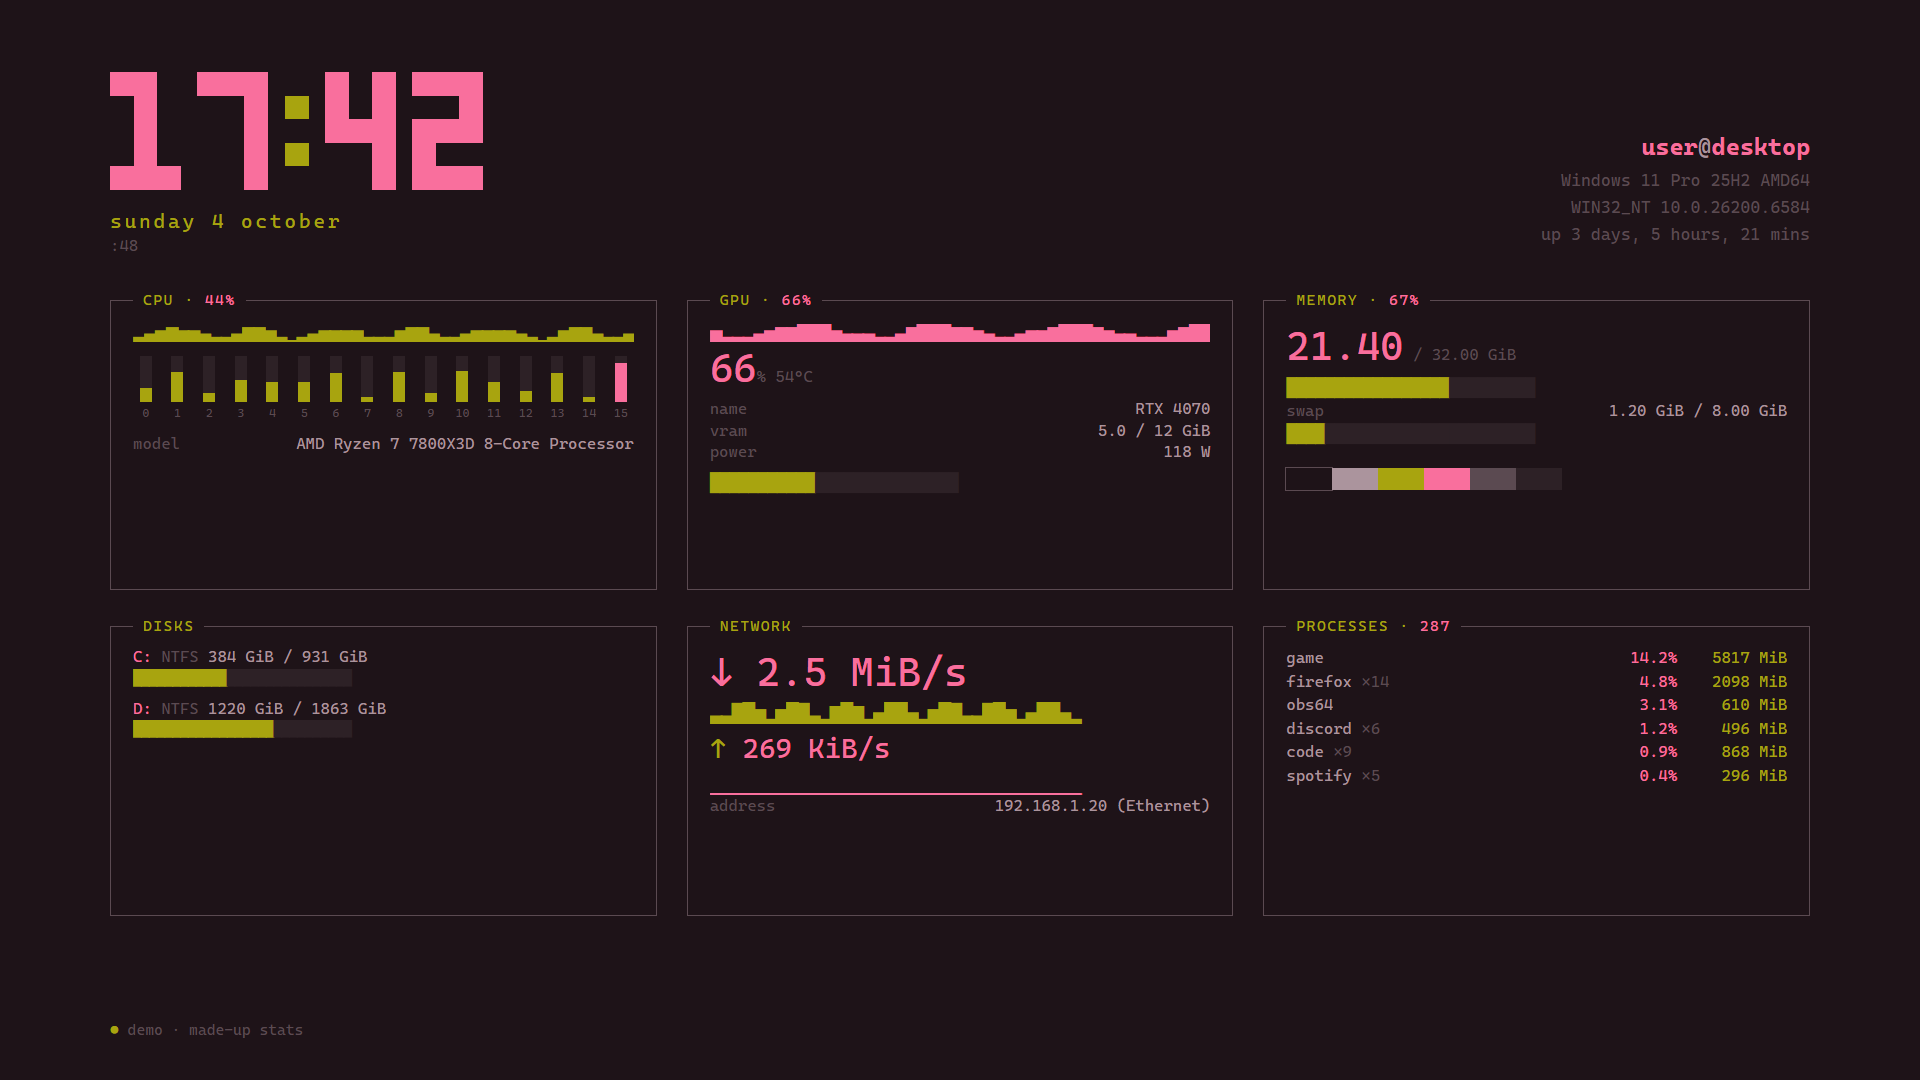
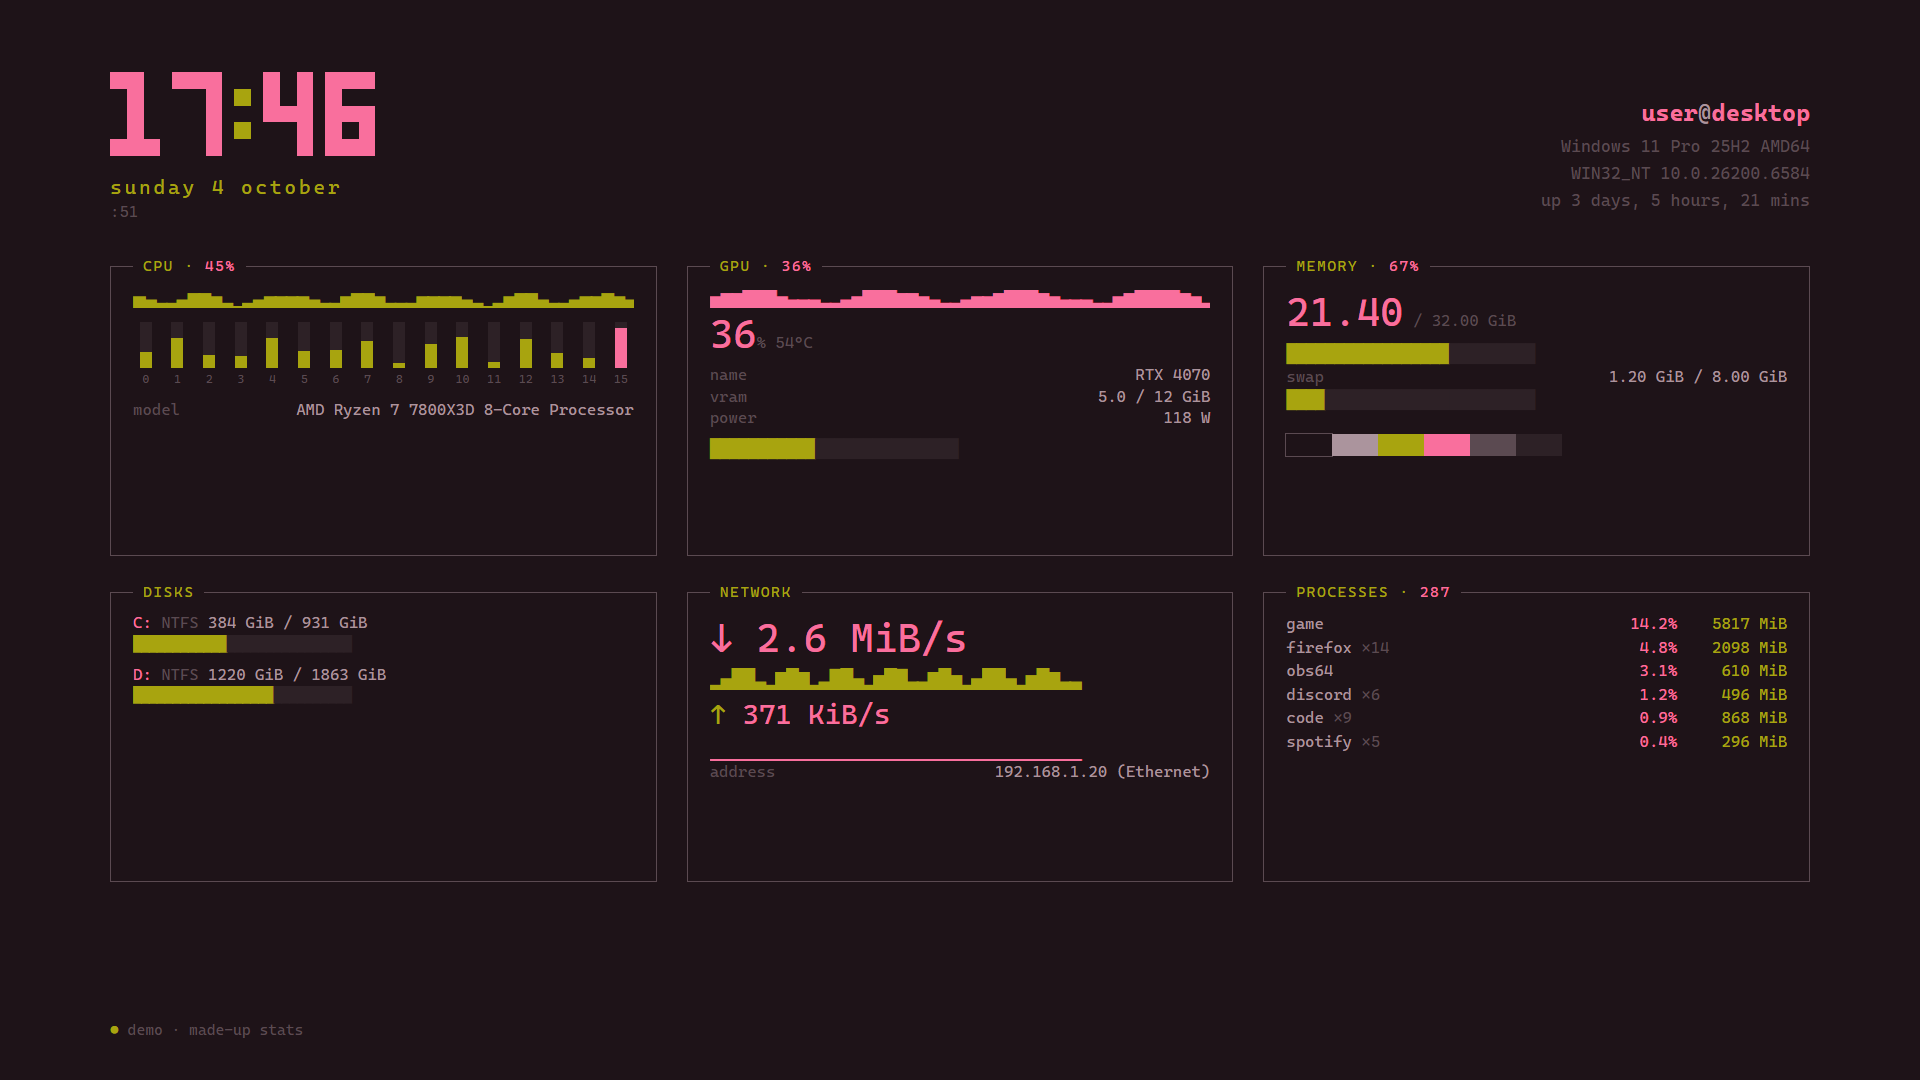
One clock: the fetch layout's, at the same size in every layout; clock styles removed
The block digits blown up to 118 and 250 px in board and minimal looked crude, and the
segments/text alternatives weren't wanted. --style and theme.json no longer take a clock;
an old "clock" key is ignored. Screenshots retaken.

diff --git a/index.html b/index.html
@@ -55,11 +55,7 @@ h3 b{color:var(--teal);font-weight:400}
 /* ── the clock: one SVG per glyph, so digits never show seams or gaps when scaled ── */
 .clock .time{display:flex;align-items:flex-end;gap:calc(var(--ch) * .14)}
 .clock .time svg{height:var(--ch);width:auto;display:block;overflow:visible}
-.clock .time .on{fill:var(--mint)} .clock .time .off{fill:var(--faint)} .clock .time .col{fill:var(--teal)}
-/* a thin sans for the text clock: Cascadia's dotted zero looked like a target at this size */
-.clock .time .txt{font:200 calc(var(--ch) * 1.36)/.78 "Segoe UI Variable Display","Segoe UI","Inter","Noto Sans",sans-serif;
-  color:var(--mint);letter-spacing:-.02em;font-variant-numeric:tabular-nums}
-.clock .time .txt .colon{color:var(--teal)}
+.clock .time .on{fill:var(--mint)} .clock .time .col{fill:var(--teal)}
 .clock .date{color:var(--teal);letter-spacing:.14em;text-transform:lowercase}
 .clock .sec{color:var(--dim)}
 
@@ -80,7 +76,7 @@ h3 b{color:var(--teal);font-weight:400}
 /* ── layout: board (btop-like boxes) ── */
 #board{padding:72px 110px}
 #board .head{display:flex;justify-content:space-between;align-items:flex-end;margin-bottom:34px}
-#board .clock{--ch:118px}
+#board .clock{--ch:84px}  /* the fetch clock's size everywhere: bigger blocks look crude */
 #board .clock .date{font-size:20px;margin-top:18px}
 #board .clock .sec{font-size:16px}
 #board .who{text-align:right;font-size:17px;line-height:1.6}
@@ -104,10 +100,10 @@ h3 b{color:var(--teal);font-weight:400}
 /* ── layout: minimal (a big clock) ── */
 #minimal{display:none;text-align:center}
 body.L-minimal #minimal{display:flex;flex-direction:column;align-items:center;justify-content:center}
-#minimal .clock{--ch:250px;display:flex;flex-direction:column;align-items:center}
-#minimal .clock .date{font-size:30px;margin-top:44px;letter-spacing:.3em}
+#minimal .clock{--ch:84px;display:flex;flex-direction:column;align-items:center}
+#minimal .clock .date{font-size:22px;margin-top:24px;letter-spacing:.24em}
 #minimal .clock .sec{font-size:20px;margin-top:6px}
-#minimal .line{margin-top:58px;font-size:20px;letter-spacing:.06em;color:var(--dim)}
+#minimal .line{margin-top:40px;font-size:20px;letter-spacing:.06em;color:var(--dim)}
 #minimal .line b{color:var(--mint);font-weight:400}
 #minimal .line i{font-style:normal;color:var(--teal)}
 #minimal .spark{margin-top:18px;font-size:26px;color:var(--faint)}
@@ -219,9 +215,9 @@ addEventListener("resize", fit); fit();
 
 // ── the look: layout, clock, bars (from termwall.json / theme.json through the API) ──
 const LAYOUTS = ["fetch", "board", "minimal"];
-let style = {layout: "fetch", clock: "blocks", bars: "blocks", rotate: 0}, styleKey = "";
+let style = {layout: "fetch", bars: "blocks", rotate: 0}, styleKey = "";
 const URLQ = new URLSearchParams(location.search);
-const URL_STYLE = Object.fromEntries(["layout", "clock", "bars"].filter(k => URLQ.get(k)).map(k => [k, URLQ.get(k)]));
+const URL_STYLE = Object.fromEntries(["layout", "bars"].filter(k => URLQ.get(k)).map(k => [k, URLQ.get(k)]));
 function applyStyle(st){
   if (!st) return;
   st = {...st, ...URL_STYLE};
@@ -439,27 +435,7 @@ function blockGlyph(ch){
   PIX[ch].forEach((r, y) => [...r].forEach((b, x) => { if (b === "1") d += `M${x} ${y}h1v1h-1z`; }));
   return `<svg viewBox="0 0 3 5" shape-rendering="crispEdges"><path class="on" d="${d}"/></svg>`;
 }
-// segments: a seven-segment display, the unlit segments faintly visible
-const SEG = {  // a b c d e f g
-  "0":"1111110", "1":"0110000", "2":"1101101", "3":"1111001", "4":"0110011",
-  "5":"1011011", "6":"1011111", "7":"1110000", "8":"1111111", "9":"1111011" };
-const SEG_SHAPES = [  // 60×100 cell, bars 10 thick with pointed ends
-  "M10 5 L15 0 H45 L50 5 L45 10 H15 Z",            // a  top
-  "M50 5 L55 10 V45 L50 50 L45 45 V10 Z",          // b  top right
-  "M50 50 L55 55 V90 L50 95 L45 90 V55 Z",         // c  bottom right
-  "M10 95 L15 90 H45 L50 95 L45 100 H15 Z",        // d  bottom
-  "M10 50 L15 55 V90 L10 95 L5 90 V55 Z",          // e  bottom left
-  "M10 5 L15 10 V45 L10 50 L5 45 V10 Z",           // f  top left
-  "M10 50 L15 45 H45 L50 50 L45 55 H15 Z" ];       // g  middle
-function segGlyph(ch){
-  if (ch === ":") return `<svg viewBox="0 0 16 100"><rect class="col" x="3" y="26" width="10" height="10"/><rect class="col" x="3" y="64" width="10" height="10"/></svg>`;
-  return `<svg viewBox="0 0 60 100">${SEG_SHAPES.map((d, i) => `<path class="${SEG[ch][i] === "1" ? "on" : "off"}" d="${d}"/>`).join("")}</svg>`;
-}
-function clockHTML(hhmm){
-  if (style.clock === "text") return `<span class="txt">${hhmm.replace(":", '<span class="colon">:</span>')}</span>`;
-  const glyph = style.clock === "segments" ? segGlyph : blockGlyph;
-  return [...hhmm].map(glyph).join("");
-}
+function clockHTML(hhmm){ return [...hhmm].map(blockGlyph).join(""); }
 function tick(){ const n = new Date();
   showLayout();
   const hhmm = n.toLocaleTimeString("en-GB", {hour:"2-digit", minute:"2-digit"});
@@ -467,7 +443,7 @@ function tick(){ const n = new Date();
   const sec = ":" + String(n.getSeconds()).padStart(2, "0");
   document.querySelectorAll("[data-clock]").forEach(c => {
     const html = clockHTML(hhmm), t = c.querySelector(".time");
-    if (t.dataset.k !== hhmm + style.clock) { t.innerHTML = html; t.dataset.k = hhmm + style.clock; }
+    if (t.dataset.k !== hhmm) { t.innerHTML = html; t.dataset.k = hhmm; }
     c.querySelector(".date").textContent = date;
     c.querySelector(".sec").textContent = sec;
   });

diff --git a/termwall_api.py b/termwall_api.py
@@ -6,7 +6,7 @@ once per second, so a request never blocks on psutil or nvidia-smi.
     python termwall_api.py              # serve on 127.0.0.1:9002
     python termwall_api.py --once       # print one snapshot and exit
     python termwall_api.py --selftest
-    python termwall_api.py --style                  # the look: layout, clock, bars, rotation
+    python termwall_api.py --style                  # the look: layout, bars, rotation
     python termwall_api.py --style layout board     # change one of them (the page follows live)
     python termwall_api.py --link-we                # show up in Wallpaper Engine (a junction in myprojects)
     python termwall_api.py --link-lively            # the same for Lively Wallpaper (its library)
@@ -57,11 +57,10 @@ def valid_theme(t) -> bool:
 # theme.json wins over it, so a switcher (livery) can give every palette its own look.
 STYLE_FILE = os.environ.get("TERMWALL_STYLE") or os.path.join(os.path.dirname(os.path.abspath(__file__)), "termwall.json")
 STYLE_CHOICES = {
-    "layout": ("fetch", "board", "minimal"),   # fastfetch screen / btop-like boxes / a big clock
-    "clock": ("blocks", "segments", "text"),   # solid pixel digits / 7-segment / a thin font
+    "layout": ("fetch", "board", "minimal"),   # fastfetch screen / btop-like boxes / the clock and one line
     "bars": ("blocks", "shade", "dots", "line"),
 }
-STYLE_DEFAULTS = {"layout": "fetch", "clock": "blocks", "bars": "blocks", "rotate": 0}
+STYLE_DEFAULTS = {"layout": "fetch", "bars": "blocks", "rotate": 0}
 
 
 def clean_style(raw) -> dict:
@@ -106,7 +105,7 @@ def set_style(key: str, value: str, path: str | None = None) -> dict:
             raise ValueError(f"{key} is one of {', '.join(STYLE_CHOICES[key])}")
         cur[key] = value
     else:
-        raise ValueError(f"unknown setting {key!r} (layout, clock, bars, rotate)")
+        raise ValueError(f"unknown setting {key!r} (layout, bars, rotate)")
     with open(path, "a+", encoding="utf-8") as f:  # in place: no temp+rename (EFS-broken AppData)
         f.seek(0)
         f.truncate()
@@ -705,9 +704,9 @@ def selftest() -> int:
         set_style("rotate", "15", sp)
         check(read_style(sp, tp)["layout"] == "board" and read_style(sp, tp)["rotate"] == 15, "termwall.json read")
         with open(tp, "w", encoding="utf-8") as f:
-            json.dump({**good, "style": {"layout": "minimal", "clock": "comic-sans", "bars": "dots"}}, f)
+            json.dump({**good, "style": {"layout": "minimal", "clock": "segments", "bars": "comic-sans"}}, f)
         st = read_style(sp, tp)
-        check(st["layout"] == "minimal" and st["bars"] == "dots" and st["clock"] == "blocks",
+        check(st["layout"] == "minimal" and st["bars"] == "blocks" and "clock" not in st,
               "theme.json style wins, unknown values dropped")
         try:
             set_style("layout", "nope", sp)

diff --git a/README.md b/README.md
@@ -86,14 +86,13 @@ Inside Wallpaper Engine the currently playing track also appears under the clock
 ## Looks
 
 Preview any look in a browser without the API: `index.html?demo&layout=board` (add
-`&clock=segments`, `&bars=dots`, or a palette as `&bg=171717&accent=b5f4e7&secondary=7faca3&text=939fa1&dim=4b5252&faint=242626`).
+`&bars=dots`, or a palette as `&bg=171717&accent=b5f4e7&secondary=7faca3&text=939fa1&dim=4b5252&faint=242626`).
 
-Three layouts, three clocks and four bar styles, switched live (no wallpaper reload):
+Three layouts and four bar styles, switched live (no wallpaper reload):
 
 | setting | values |
 |---|---|
-| `layout` | `fetch` (the fastfetch screen), `board` (btop-like boxes), `minimal` (a big clock and one line of stats) |
-| `clock` | `blocks` (solid pixel digits), `segments` (seven-segment), `text` (a thin font) |
+| `layout` | `fetch` (the fastfetch screen), `board` (btop-like boxes), `minimal` (the clock and one line of stats) |
 | `bars` | `blocks`, `shade`, `dots`, `line` |
 | `rotate` | minutes between layouts, `0` = off |
 
@@ -105,10 +104,9 @@ python termwall_api.py --style rotate 20      # a different layout every 20 minu
 
 They live in `termwall.json` next to the API (gitignored). A `"style"` object inside
 `theme.json` wins over it, so a palette switcher can give each palette its own look:
-`{"bg": "#171717", ..., "style": {"layout": "minimal", "clock": "segments"}}`.
+`{"bg": "#171717", ..., "style": {"layout": "minimal", "bars": "dots"}}`.
 
-Clock digits are one SVG per glyph, so they scale without the seams the old grid of
-cells had.
+The clock's digits are one SVG per glyph, so there are no seams between their pixels.
 
 ## Other systems
 
